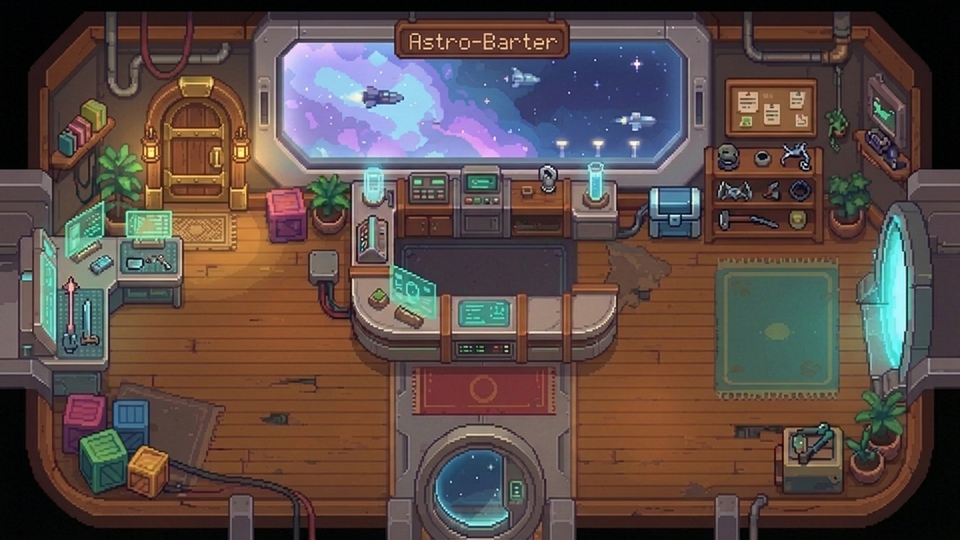
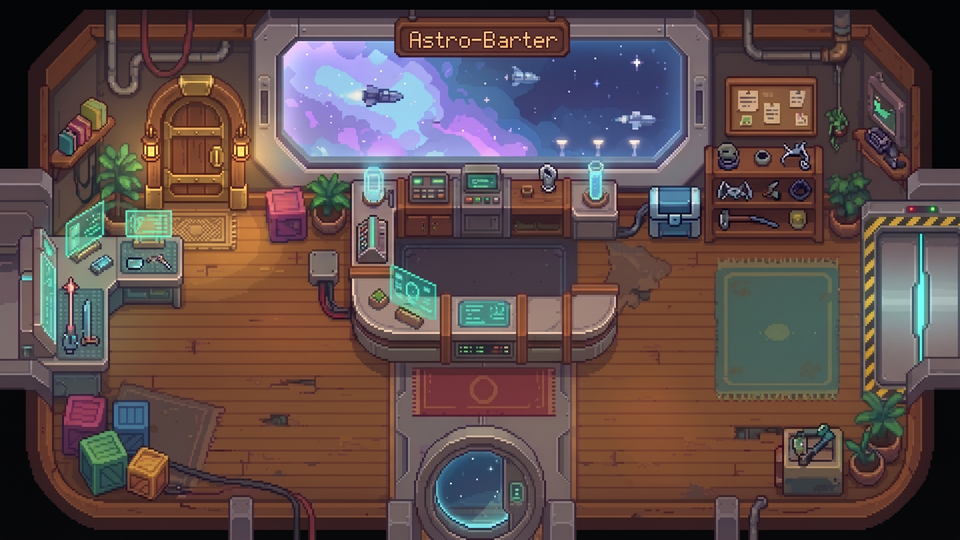
feat(welt): Portale → Airlock-Türen (Hub/Hangar/Laden), Kontaktschatten gegen schwebende Props
Claude-Session: https://claude.ai/code/session_016nKYwkpeUHJGHpF5xe8T1D

diff --git a/src/assets/pixelArt.ts b/src/assets/pixelArt.ts
@@ -95,3 +95,81 @@ export function drawPixelShadow(
   ctx.fill();
   ctx.restore();
 }
+
+/** Sichtbarer Fußabdruck eines Sprites (Anteile 0..1), einmal pro Bild gemessen. */
+interface SpriteFootprint {
+  left: number;
+  right: number;
+  bottom: number;
+}
+const footprintCache = new WeakMap<CanvasImageSource, SpriteFootprint>();
+
+function measureFootprint(img: CanvasImageSource): SpriteFootprint {
+  const cached = footprintCache.get(img);
+  if (cached) return cached;
+  let fp: SpriteFootprint = { left: 0.1, right: 0.9, bottom: 1 };
+  try {
+    const w = (img as HTMLImageElement | HTMLCanvasElement).width;
+    const h = (img as HTMLImageElement | HTMLCanvasElement).height;
+    if (w > 0 && h > 0) {
+      const c = document.createElement('canvas');
+      c.width = w;
+      c.height = h;
+      const cx = c.getContext('2d', { willReadFrequently: true });
+      if (cx) {
+        cx.drawImage(img, 0, 0);
+        const data = cx.getImageData(0, 0, w, h).data;
+        let bottom = -1;
+        for (let y = h - 1; y >= 0 && bottom < 0; y--) {
+          for (let x = 0; x < w; x++) {
+            if (data[(y * w + x) * 4 + 3] > 40) {
+              bottom = y;
+              break;
+            }
+          }
+        }
+        if (bottom >= 0) {
+          // Breite der untersten ~12 % sichtbaren Zeilen = tatsächliche Standfläche
+          const band = Math.max(2, Math.round(h * 0.12));
+          let l = w;
+          let r = -1;
+          for (let y = Math.max(0, bottom - band); y <= bottom; y++) {
+            for (let x = 0; x < w; x++) {
+              if (data[(y * w + x) * 4 + 3] > 40) {
+                if (x < l) l = x;
+                if (x > r) r = x;
+              }
+            }
+          }
+          if (r >= l) fp = { left: l / w, right: (r + 1) / w, bottom: (bottom + 1) / h };
+        }
+      }
+    }
+  } catch {
+    /* Bild nicht lesbar → Standardwerte */
+  }
+  footprintCache.set(img, fp);
+  return fp;
+}
+
+/**
+ * Kontaktschatten genau an der sichtbaren Unterkante eines gezeichneten Sprites (statt an einer geschätzten Position).
+ * Zwei Lagen: breiter weicher Schatten + dunkler Kontaktkern direkt unter der Standfläche → Props sitzen auf dem Boden
+ * statt zu schweben. Vor dem Sprite aufrufen (Schatten liegt dahinter).
+ */
+export function drawContactShadow(
+  ctx: CanvasRenderingContext2D,
+  img: CanvasImageSource | null | undefined,
+  dx: number,
+  dy: number,
+  dw: number,
+  dh: number,
+  alpha = 0.5,
+): void {
+  const fp = img ? measureFootprint(img) : { left: 0.1, right: 0.9, bottom: 1 };
+  const baseW = Math.max(4, (fp.right - fp.left) * dw);
+  const cx = dx + ((fp.left + fp.right) / 2) * dw;
+  const by = dy + fp.bottom * dh;
+  drawPixelShadow(ctx, cx, by - 0.5, baseW * 0.62, Math.max(2.2, baseW * 0.2), alpha * 0.55);
+  drawPixelShadow(ctx, cx, by - 1.5, baseW * 0.46, Math.max(1.6, baseW * 0.12), alpha);
+}

diff --git a/src/dungeon/dungeonRenderer.ts b/src/dungeon/dungeonRenderer.ts
@@ -1,5 +1,5 @@
 import { getHDArt } from '../assets/artLoader';
-import { drawGlow, drawPixelShadow } from '../assets/pixelArt';
+import { drawContactShadow, drawGlow, drawPixelShadow } from '../assets/pixelArt';
 import { drawBossLook } from './bosses/bossLooks';
 import { getBossPose, getRigFacing, smoothBossBody } from './anim/bossAnims';
 import { ARC_DEATH_TIME, arcDeathPose } from './anim/rigs/drone_arc';
@@ -407,10 +407,11 @@ export class DungeonRenderer {
 
     for (const pod of this.scene.currentRoom.pods) {
       if (!pod.broken) {
-        drawPixelShadow(ctx, pod.x, pod.y + 9, 9, 3.5, 0.48);
         if (art.podIntact) {
+          drawContactShadow(ctx, art.podIntact, pod.x - 11, pod.y - 13, 22, 24, 0.55);
           ctx.drawImage(art.podIntact, pod.x - 11, pod.y - 13, 22, 24);
         } else {
+          drawPixelShadow(ctx, pod.x, pod.y + 9, 9, 3.5, 0.48);
           ctx.drawImage(atlas.props.podIntact, Math.round(pod.x - 8), Math.round(pod.y - 7));
         }
         drawGlow(ctx, pod.x, pod.y - 1, 16, '#fbbf24', 0.22);
@@ -421,11 +422,12 @@ export class DungeonRenderer {
 
     if (this.scene.currentRoom.chest) {
       const ch = this.scene.currentRoom.chest;
-      drawPixelShadow(ctx, ch.x, ch.y + 10, 14, 4.5, 0.5);
       const chestSpr = ch.opened ? art.chestOpen : art.chestClosed;
       if (chestSpr) {
+        drawContactShadow(ctx, chestSpr, ch.x - 14, ch.y - 13, 28, 25, 0.6);
         ctx.drawImage(chestSpr, ch.x - 14, ch.y - 13, 28, 25);
       } else {
+        drawPixelShadow(ctx, ch.x, ch.y + 10, 14, 4.5, 0.5);
         ctx.drawImage(
           ch.opened ? atlas.props.chestOpen : atlas.props.chestClosed,
           Math.round(ch.x - 10),

diff --git a/src/scenes/HubScene.ts b/src/scenes/HubScene.ts
@@ -1,5 +1,5 @@
 import { getHDArt } from '../assets/artLoader';
-import { drawGlow, drawPixelShadow } from '../assets/pixelArt';
+import { drawContactShadow, drawGlow, drawPixelShadow } from '../assets/pixelArt';
 import { getAtlas } from '../assets/sprites';
 import { sound } from '../engine/audio';
 import { VIRTUAL_HEIGHT, VIRTUAL_WIDTH, type InputManager } from '../engine/input';
@@ -781,9 +781,11 @@ export class HubScene {
     drawables.push({
       y: GUILD_BOARD_POS.y + 8,
       draw: () => {
-        drawPixelShadow(ctx, GUILD_BOARD_POS.x, GUILD_BOARD_POS.y + 11, 20, 5.5, 0.54);
         if (art.propScoreboard) {
+          drawContactShadow(ctx, art.propScoreboard, GUILD_BOARD_POS.x - 22, GUILD_BOARD_POS.y - 31, 44, 44, 0.6);
           ctx.drawImage(art.propScoreboard, GUILD_BOARD_POS.x - 22, GUILD_BOARD_POS.y - 31, 44, 44);
+        } else {
+          drawPixelShadow(ctx, GUILD_BOARD_POS.x, GUILD_BOARD_POS.y + 11, 20, 5.5, 0.54);
         }
       },
     });

diff --git a/handoff/world_overhaul.md b/handoff/world_overhaul.md
@@ -8,9 +8,12 @@
 3. **Phasen**: P1 Verankerung/Schatten + Portale→Türen · P2 Laden-Stufen · P3 Quartier-Stufen (Drohnen etc. erst ab Stufe 2 freischalten) · P4 Port Solaris entwickelt sich mit Story (Gebäude hinter Story/Dungeon-Events, animierte Upgrades, Läden je Stufe) · P5 Story-Überarbeitung inkl. Gehilfin/Mitglieder · P6 Cutscene-Anflug an Station + Intro angleichen.
 
 ## Checkliste
-- [ ] P1a Props verankern (Scoreboard, Truhen, Kristall/Trophäen, Hangar-Pad): Schatten an echter Sprite-Unterkante
-- [ ] P1b Portale → Türen/Schleusen (Hub, Hangar, Laden)
+- [x] P1a Kontaktschatten: `drawContactShadow` (`pixelArt.ts`) misst die sichtbare Unterkante/Standbreite; angewandt auf Kapitäns-Tafel (Hub), Truhe & Pods (Dungeon). ⬜ noch offen: übrige Props/Drops/Kristall-Spire, Hangar-Schiffe prüfen, Nachtschicht-Look
+- [x] P1b Portale → Airlock-Türen: `hub_bg`, `hangar_bg` (2 Portale → 1 Tür), `shop_bg`/`_t2`/`_t3` neu per art:gen; Originale in `art_source/_raw/*_portal_OLD.png`. ⬜ Hangar-Tür sitzt etwas „im Boden“ → ggf. neu in die Wand setzen; Hub-Beschriftung „Raumhafen →“ prüfen
 - [ ] P2 … P6 (siehe oben)
 
 ## Praxis-Learnings
 1. Portale sind **in die Hintergrund-PNGs eingebacken** (`hub_bg`, `hangar_bg`, `shop_bg*`) → Entfernen = Hintergrund neu erzeugen/übermalen (`npm run art:gen`), nicht nur Code.
+2. Bild-Edit-Rezept: `art:gen --ref <bg.png> --aspect 16:9 --size 2K` mit Prompt „keep everything pixel-identical, ONE change only …“ → Layout bleibt erhalten, Ausgabe 2752×1536 → mit PIL LANCZOS auf 960×540 (Kollisionen/Prompts bleiben passend). 4 Hintergründe parallel in ~1 Min.
+3. Screenshot-Skript für Szenen: `__game.transitionTo('hub'|'backroom'|'hangar'|'shop','hub')` + 1,8 s warten; Dungeon: `dng.startRun(1)`, `dng.enterRoom(key,null)` (rooms ist eine Map).
+4. Push nur auf den Session-Branch (`git push origin HEAD`), nicht `npm run ship` (würde main pushen).
